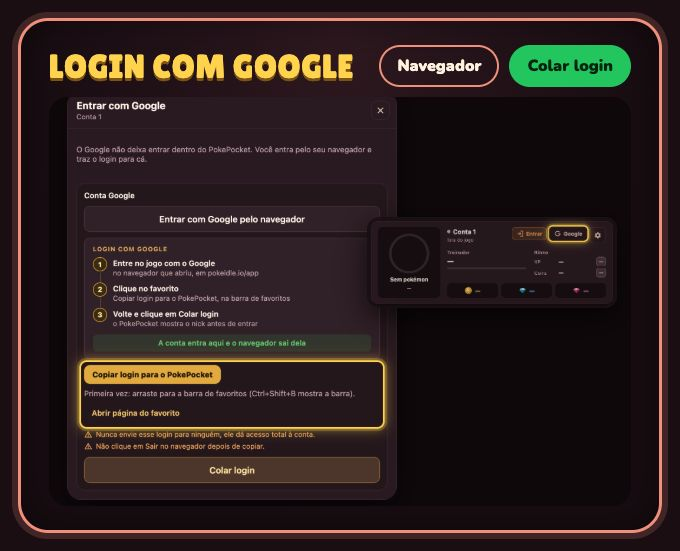
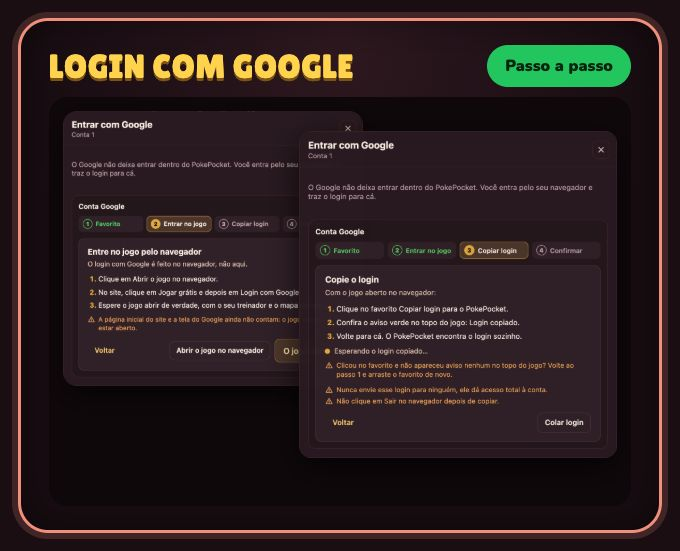
docs: versão 1.0.16 com login Google guiado

Changed region(s): [[0.0926, 0.0617, 0.9265, 0.9256]]

diff --git a/index.html b/index.html
@@ -442,7 +442,7 @@
           <a class="botao" href="https://github.com/iampiscis/pokepocket/releases/latest/download/PokePocket-Setup.exe" data-goatcounter-click="baixar-instalador-heroi" data-goatcounter-title="baixar-instalador-heroi"><svg viewBox="0 0 24 24" fill="currentColor"><path d="M3 5.5l7.5-1v7H3zm8.5-1.2L21 3v8.5h-9.5zM3 12.5h7.5v7L3 18.5zm8.5 0H21V21l-9.5-1.3z"/></svg>Baixar para Windows</a>
         </div>
         <div class="contador-dl" id="contador-dl" hidden><svg viewBox="0 0 24 24" fill="none" stroke="currentColor" stroke-width="2.4" stroke-linecap="round" stroke-linejoin="round"><path d="M12 4v11M7 10l5 5 5-5M5 20h14"/></svg><b id="dl-total">0</b><span>downloads</span></div>
-        <p class="nota">Grátis · sem cadastro · Windows 10 e 11 · versão 1.0.15.1 · <a href="#video">ver o vídeo</a> · <a href="https://github.com/iampiscis/pokepocket/releases">todas as versões</a></p>
+        <p class="nota">Grátis · sem cadastro · Windows 10 e 11 · versão 1.0.16 · <a href="#video">ver o vídeo</a> · <a href="https://github.com/iampiscis/pokepocket/releases">todas as versões</a></p>
         <div class="tela revela" id="video">
           <video src="assets/pokepocket-showreel.mp4?v=20261126" poster="assets/showreel-capa.jpg" controls preload="none" playsinline></video>
         </div>
@@ -558,7 +558,7 @@
           <div class="p4 revela"><span class="n">3</span><div class="mini"><div class="smart mini-smart"><b>O Windows protegeu o computador</b><span class="link alvo-link">Mais informações</span><div class="smart-rodape"><span class="alvo">Executar assim mesmo</span></div></div></div><h3>Libere</h3><p>Mais informações › Executar assim mesmo.</p></div>
           <div class="p4 revela"><span class="n">4</span><div class="mini mock-abrir"><img src="assets/pokebola.svg" alt="" /><span class="botao pequeno" style="pointer-events:none">Começar</span></div><h3>Pronto</h3><p>Instale, abra e entre nas suas contas.</p></div>
         </div>
-        <details class="verificar revela"><summary>Verificar o arquivo (opcional)</summary><p>Quer conferir se o arquivo é o original? No PowerShell, rode <code>Get-FileHash .\PokePocket-Setup.exe</code> e compare com o código abaixo.</p><p class="hash">Instalador 1.0.15.1: <code>9b74eb30a01c283c8c56da3dd85a1c6f615261698be73444c832c0f41a88bf06</code></p></details>
+        <details class="verificar revela"><summary>Verificar o arquivo (opcional)</summary><p>Quer conferir se o arquivo é o original? No PowerShell, rode <code>Get-FileHash .\PokePocket-Setup.exe</code> e compare com o código abaixo.</p><p class="hash">Instalador 1.0.16: <code>634566bf0d782c92b0f288ba8ed2347423ba720ae7b6e152bc9907a06ba553c0</code></p></details>
       </div>
     </section>
 
@@ -569,7 +569,12 @@
           <h2>O que mudou</h2>
         </div>
         <div class="versoes">
-          <article class="versao revela"><div class="versao-tag"><b>1.0.15.1</b><small>27/11/2026</small><span class="atual">atual</span></div><ul>
+          <article class="versao revela"><div class="versao-tag"><b>1.0.16</b><small>27/11/2026</small><span class="atual">atual</span></div><ul>
+            <li><b>Login com Google:</b> passo a passo guiado, um passo por vez. O PokePocket acha o login copiado sozinho.</li>
+            <li><b>Tela do jogo:</b> o Login com Google abre o pokeidle.io no navegador e o passo a passo no app.</li>
+            <li><b>Favorito:</b> mostra no topo do jogo se copiou o login ou por que não copiou.</li>
+          </ul></article>
+          <article class="versao revela"><div class="versao-tag"><b>1.0.15.1</b><small>27/11/2026</small></div><ul>
             <li><b>Teste:</b> atualização de teste do botão Atualizar agora, sem mudanças.</li>
           </ul></article>
           <article class="versao revela"><div class="versao-tag"><b>1.0.15</b><small>27/11/2026</small></div><ul>
